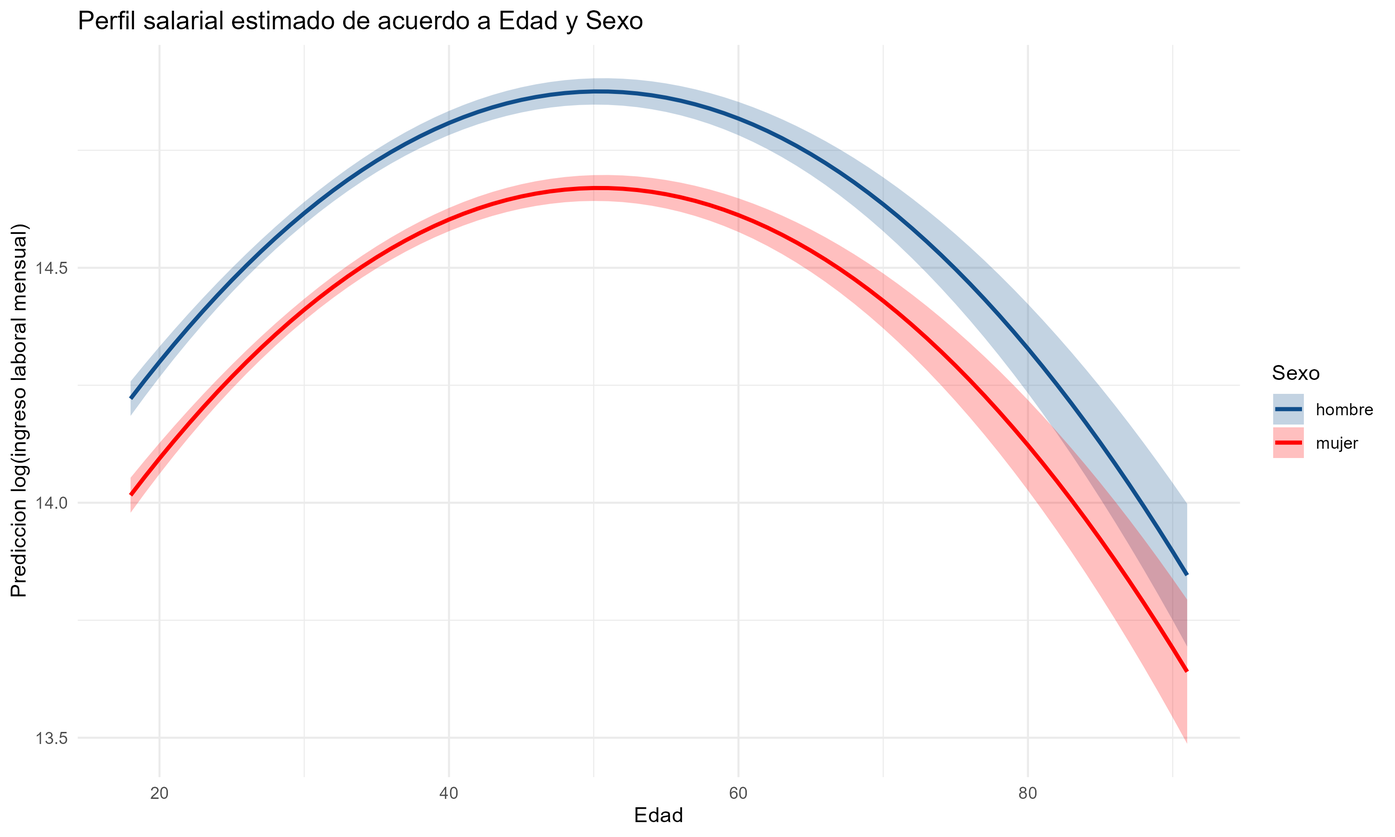
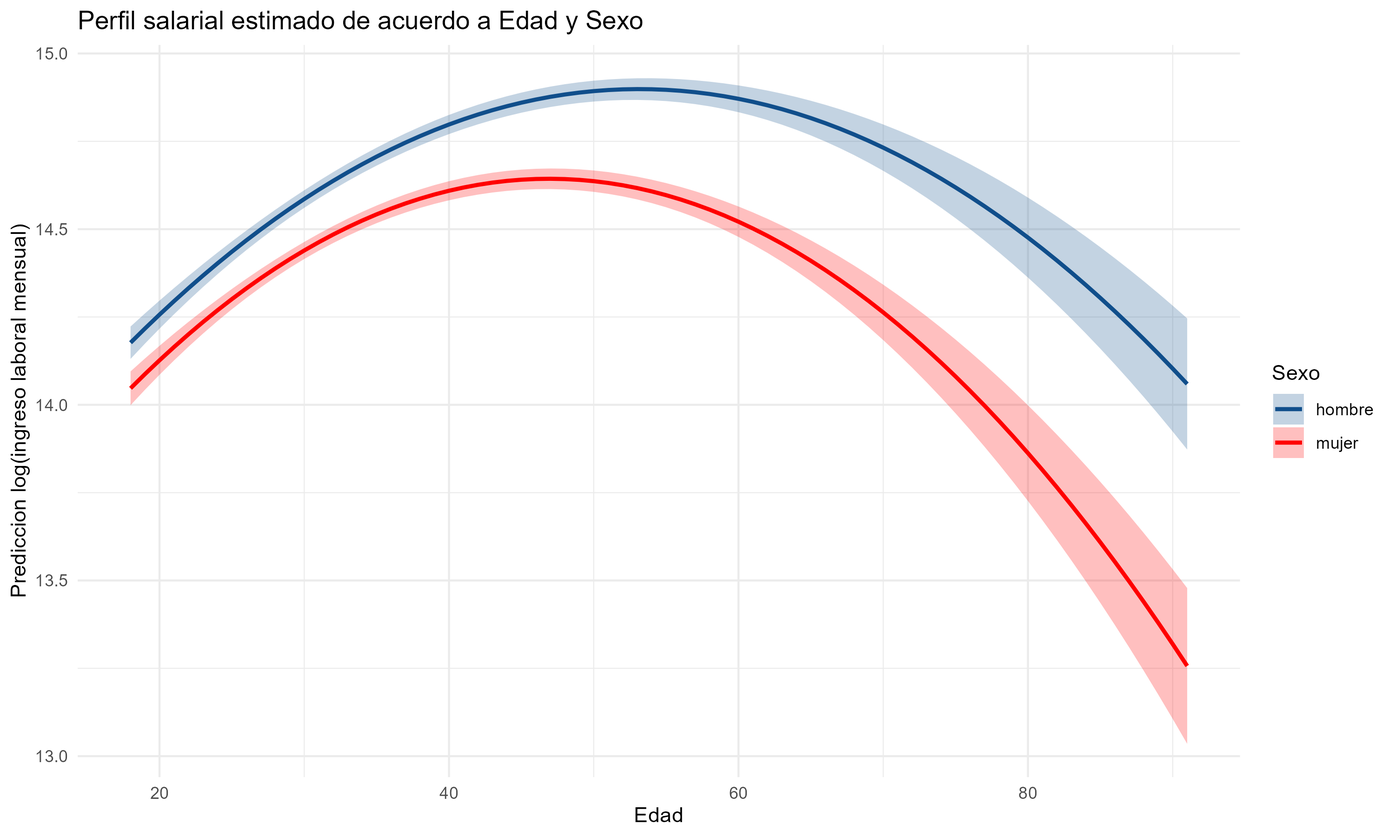
Actualización final punto 5

diff --git a/02_output/tables/comparacion_modelos_sección_3.html b/02_output/tables/comparacion_modelos_sección_3.html
@@ -1,70 +1,76 @@
 
 <table style="text-align:center"><caption><strong>Comparación de los modelos de prediccion</strong></caption>
-<tr><td colspan="10" style="border-bottom: 1px solid black"></td></tr><tr><td style="text-align:left"></td><td colspan="9"><em>Dependent variable:</em></td></tr>
-<tr><td></td><td colspan="9" style="border-bottom: 1px solid black"></td></tr>
-<tr><td style="text-align:left"></td><td colspan="9">log(ingresos mensuales)</td></tr>
-<tr><td style="text-align:left"></td><td>(1)</td><td>(2)</td><td>(3)</td><td>(4)</td><td>(5)</td><td>(6)</td><td>(7)</td><td>(8)</td><td>(9)</td></tr>
-<tr><td colspan="10" style="border-bottom: 1px solid black"></td></tr><tr><td style="text-align:left">age</td><td>0.081<sup>***</sup></td><td>0.067<sup>***</sup></td><td></td><td>0.063<sup>***</sup></td><td>0.086<sup>***</sup></td><td>0.059<sup>***</sup></td><td>0.114<sup>***</sup></td><td>0.037<sup>***</sup></td><td>0.057<sup>***</sup></td></tr>
-<tr><td style="text-align:left"></td><td>(0.004)</td><td>(0.004)</td><td></td><td>(0.003)</td><td>(0.003)</td><td>(0.003)</td><td>(0.011)</td><td>(0.008)</td><td>(0.003)</td></tr>
-<tr><td style="text-align:left"></td><td></td><td></td><td></td><td></td><td></td><td></td><td></td><td></td><td></td></tr>
-<tr><td style="text-align:left">I(age2)</td><td>-0.001<sup>***</sup></td><td>-0.001<sup>***</sup></td><td></td><td>-0.001<sup>***</sup></td><td>-0.001<sup>***</sup></td><td>-0.001<sup>***</sup></td><td>-0.002<sup>***</sup></td><td>-0.001<sup>***</sup></td><td>-0.001<sup>***</sup></td></tr>
-<tr><td style="text-align:left"></td><td>(0.00005)</td><td>(0.00004)</td><td></td><td>(0.00004)</td><td>(0.00004)</td><td>(0.00004)</td><td>(0.0003)</td><td>(0.00004)</td><td>(0.00003)</td></tr>
-<tr><td style="text-align:left"></td><td></td><td></td><td></td><td></td><td></td><td></td><td></td><td></td><td></td></tr>
-<tr><td style="text-align:left">I(age3)</td><td></td><td></td><td></td><td></td><td></td><td></td><td>0.00001<sup>***</sup></td><td></td><td></td></tr>
-<tr><td style="text-align:left"></td><td></td><td></td><td></td><td></td><td></td><td></td><td>(0.00000)</td><td></td><td></td></tr>
-<tr><td style="text-align:left"></td><td></td><td></td><td></td><td></td><td></td><td></td><td></td><td></td><td></td></tr>
-<tr><td style="text-align:left">age:max_educ_level3</td><td></td><td></td><td></td><td></td><td></td><td></td><td></td><td>0.003</td><td></td></tr>
-<tr><td style="text-align:left"></td><td></td><td></td><td></td><td></td><td></td><td></td><td></td><td>(0.007)</td><td></td></tr>
-<tr><td style="text-align:left"></td><td></td><td></td><td></td><td></td><td></td><td></td><td></td><td></td><td></td></tr>
-<tr><td style="text-align:left">age:max_educ_level4</td><td></td><td></td><td></td><td></td><td></td><td></td><td></td><td>0.007</td><td></td></tr>
-<tr><td style="text-align:left"></td><td></td><td></td><td></td><td></td><td></td><td></td><td></td><td>(0.007)</td><td></td></tr>
-<tr><td style="text-align:left"></td><td></td><td></td><td></td><td></td><td></td><td></td><td></td><td></td><td></td></tr>
-<tr><td style="text-align:left">age:max_educ_level5</td><td></td><td></td><td></td><td></td><td></td><td></td><td></td><td>0.007</td><td></td></tr>
-<tr><td style="text-align:left"></td><td></td><td></td><td></td><td></td><td></td><td></td><td></td><td>(0.007)</td><td></td></tr>
-<tr><td style="text-align:left"></td><td></td><td></td><td></td><td></td><td></td><td></td><td></td><td></td><td></td></tr>
-<tr><td style="text-align:left">age:max_educ_level6</td><td></td><td></td><td></td><td></td><td></td><td></td><td></td><td>0.008</td><td></td></tr>
-<tr><td style="text-align:left"></td><td></td><td></td><td></td><td></td><td></td><td></td><td></td><td>(0.006)</td><td></td></tr>
-<tr><td style="text-align:left"></td><td></td><td></td><td></td><td></td><td></td><td></td><td></td><td></td><td></td></tr>
-<tr><td style="text-align:left">age:max_educ_level7</td><td></td><td></td><td></td><td></td><td></td><td></td><td></td><td>0.023<sup>***</sup></td><td></td></tr>
-<tr><td style="text-align:left"></td><td></td><td></td><td></td><td></td><td></td><td></td><td></td><td>(0.006)</td><td></td></tr>
-<tr><td style="text-align:left"></td><td></td><td></td><td></td><td></td><td></td><td></td><td></td><td></td><td></td></tr>
-<tr><td style="text-align:left">max_educ_level3:female</td><td></td><td></td><td></td><td></td><td></td><td></td><td></td><td>-0.072</td><td></td></tr>
-<tr><td style="text-align:left"></td><td></td><td></td><td></td><td></td><td></td><td></td><td></td><td>(0.189)</td><td></td></tr>
-<tr><td style="text-align:left"></td><td></td><td></td><td></td><td></td><td></td><td></td><td></td><td></td><td></td></tr>
-<tr><td style="text-align:left">max_educ_level4:female</td><td></td><td></td><td></td><td></td><td></td><td></td><td></td><td>-0.189</td><td></td></tr>
-<tr><td style="text-align:left"></td><td></td><td></td><td></td><td></td><td></td><td></td><td></td><td>(0.184)</td><td></td></tr>
-<tr><td style="text-align:left"></td><td></td><td></td><td></td><td></td><td></td><td></td><td></td><td></td><td></td></tr>
-<tr><td style="text-align:left">max_educ_level5:female</td><td></td><td></td><td></td><td></td><td></td><td></td><td></td><td>-0.272</td><td></td></tr>
-<tr><td style="text-align:left"></td><td></td><td></td><td></td><td></td><td></td><td></td><td></td><td>(0.183)</td><td></td></tr>
-<tr><td style="text-align:left"></td><td></td><td></td><td></td><td></td><td></td><td></td><td></td><td></td><td></td></tr>
-<tr><td style="text-align:left">max_educ_level6:female</td><td></td><td></td><td></td><td></td><td></td><td></td><td></td><td>-0.144</td><td></td></tr>
-<tr><td style="text-align:left"></td><td></td><td></td><td></td><td></td><td></td><td></td><td></td><td>(0.180)</td><td></td></tr>
-<tr><td style="text-align:left"></td><td></td><td></td><td></td><td></td><td></td><td></td><td></td><td></td><td></td></tr>
-<tr><td style="text-align:left">max_educ_level7:female</td><td></td><td></td><td></td><td></td><td></td><td></td><td></td><td>-0.088</td><td></td></tr>
-<tr><td style="text-align:left"></td><td></td><td></td><td></td><td></td><td></td><td></td><td></td><td>(0.180)</td><td></td></tr>
-<tr><td style="text-align:left"></td><td></td><td></td><td></td><td></td><td></td><td></td><td></td><td></td><td></td></tr>
-<tr><td style="text-align:left">max_educ_level3</td><td></td><td></td><td></td><td>0.284<sup>***</sup></td><td>0.340<sup>***</sup></td><td>0.309<sup>***</sup></td><td>0.327<sup>***</sup></td><td>0.176</td><td>0.261<sup>***</sup></td></tr>
-<tr><td style="text-align:left"></td><td></td><td></td><td></td><td>(0.094)</td><td>(0.109)</td><td>(0.094)</td><td>(0.094)</td><td>(0.386)</td><td>(0.086)</td></tr>
-<tr><td style="text-align:left"></td><td></td><td></td><td></td><td></td><td></td><td></td><td></td><td></td><td></td></tr>
-<tr><td style="text-align:left">max_educ_level4</td><td></td><td></td><td></td><td>0.324<sup>***</sup></td><td>0.400<sup>***</sup></td><td>0.348<sup>***</sup></td><td>0.370<sup>***</sup></td><td>0.061</td><td>0.286<sup>***</sup></td></tr>
-<tr><td style="text-align:left"></td><td></td><td></td><td></td><td>(0.091)</td><td>(0.106)</td><td>(0.092)</td><td>(0.092)</td><td>(0.374)</td><td>(0.084)</td></tr>
-<tr><td style="text-align:left"></td><td></td><td></td><td></td><td></td><td></td><td></td><td></td><td></td><td></td></tr>
-<tr><td style="text-align:left">max_educ_level5</td><td></td><td></td><td></td><td>0.398<sup>***</sup></td><td>0.487<sup>***</sup></td><td>0.434<sup>***</sup></td><td>0.461<sup>***</sup></td><td>0.140</td><td>0.336<sup>***</sup></td></tr>
-<tr><td style="text-align:left"></td><td></td><td></td><td></td><td>(0.091)</td><td>(0.106)</td><td>(0.091)</td><td>(0.091)</td><td>(0.370)</td><td>(0.083)</td></tr>
-<tr><td style="text-align:left"></td><td></td><td></td><td></td><td></td><td></td><td></td><td></td><td></td><td></td></tr>
-<tr><td style="text-align:left">max_educ_level6</td><td></td><td></td><td></td><td>0.495<sup>***</sup></td><td>0.736<sup>***</sup></td><td>0.542<sup>***</sup></td><td>0.563<sup>***</sup></td><td>0.096</td><td>0.389<sup>***</sup></td></tr>
-<tr><td style="text-align:left"></td><td></td><td></td><td></td><td>(0.090)</td><td>(0.105)</td><td>(0.090)</td><td>(0.090)</td><td>(0.367)</td><td>(0.083)</td></tr>
-<tr><td style="text-align:left"></td><td></td><td></td><td></td><td></td><td></td><td></td><td></td><td></td><td></td></tr>
-<tr><td style="text-align:left">max_educ_level7</td><td></td><td></td><td></td><td>1.057<sup>***</sup></td><td>1.394<sup>***</sup></td><td>1.119<sup>***</sup></td><td>1.139<sup>***</sup></td><td>0.125</td><td>0.747<sup>***</sup></td></tr>
-<tr><td style="text-align:left"></td><td></td><td></td><td></td><td>(0.090)</td><td>(0.105)</td><td>(0.091)</td><td>(0.091)</td><td>(0.366)</td><td>(0.083)</td></tr>
-<tr><td style="text-align:left"></td><td></td><td></td><td></td><td></td><td></td><td></td><td></td><td></td><td></td></tr>
-<tr><td style="text-align:left">female</td><td></td><td></td><td>-0.243<sup>***</sup></td><td>-0.199<sup>***</sup></td><td>-0.330<sup>***</sup></td><td>-0.194<sup>***</sup></td><td>-0.194<sup>***</sup></td><td>-0.051</td><td>-0.197<sup>***</sup></td></tr>
-<tr><td style="text-align:left"></td><td></td><td></td><td>(0.018)</td><td>(0.014)</td><td>(0.016)</td><td>(0.014)</td><td>(0.014)</td><td>(0.179)</td><td>(0.013)</td></tr>
-<tr><td style="text-align:left"></td><td></td><td></td><td></td><td></td><td></td><td></td><td></td><td></td><td></td></tr>
-<tr><td colspan="10" style="border-bottom: 1px solid black"></td></tr><tr><td style="text-align:left">RMSE Out-of-sample</td><td>0.876</td><td>0.799</td><td>0.893</td><td>0.661</td><td>0.757</td><td>0.662</td><td>0.662</td><td>0.654</td><td>0.609</td></tr>
-<tr><td style="text-align:left">Observations</td><td>9,378</td><td>9,378</td><td>9,378</td><td>9,378</td><td>9,378</td><td>9,378</td><td>9,378</td><td>9,378</td><td>9,378</td></tr>
-<tr><td style="text-align:left">R<sup>2</sup></td><td>0.053</td><td>0.233</td><td>0.019</td><td>0.469</td><td>0.274</td><td>0.463</td><td>0.464</td><td>0.474</td><td>0.557</td></tr>
-<tr><td style="text-align:left">Adjusted R<sup>2</sup></td><td>0.053</td><td>0.232</td><td>0.019</td><td>0.468</td><td>0.273</td><td>0.462</td><td>0.463</td><td>0.473</td><td>0.556</td></tr>
-<tr><td style="text-align:left">Residual Std. Error</td><td>0.864 (df = 9375)</td><td>0.777 (df = 9368)</td><td>0.879 (df = 9376)</td><td>0.647 (df = 9360)</td><td>0.757 (df = 9369)</td><td>0.651 (df = 9361)</td><td>0.650 (df = 9360)</td><td>0.644 (df = 9351)</td><td>0.591 (df = 9354)</td></tr>
-<tr><td colspan="10" style="border-bottom: 1px solid black"></td></tr><tr><td style="text-align:left"><em>Note:</em></td><td colspan="9" style="text-align:right"><sup>*</sup>p<0.1; <sup>**</sup>p<0.05; <sup>***</sup>p<0.01</td></tr>
+<tr><td colspan="11" style="border-bottom: 1px solid black"></td></tr><tr><td style="text-align:left"></td><td colspan="10"><em>Dependent variable:</em></td></tr>
+<tr><td></td><td colspan="10" style="border-bottom: 1px solid black"></td></tr>
+<tr><td style="text-align:left"></td><td colspan="10">log(ingresos mensuales)</td></tr>
+<tr><td style="text-align:left"></td><td>(1)</td><td>(2)</td><td>(3)</td><td>(4)</td><td>(5)</td><td>(6)</td><td>(7)</td><td>(8)</td><td>(9)</td><td>(10)</td></tr>
+<tr><td colspan="11" style="border-bottom: 1px solid black"></td></tr><tr><td style="text-align:left">age</td><td>0.081<sup>***</sup></td><td>0.067<sup>***</sup></td><td></td><td>0.063<sup>***</sup></td><td>0.063<sup>***</sup></td><td>0.086<sup>***</sup></td><td>0.059<sup>***</sup></td><td>0.114<sup>***</sup></td><td>0.037<sup>***</sup></td><td>0.057<sup>***</sup></td></tr>
+<tr><td style="text-align:left"></td><td>(0.004)</td><td>(0.004)</td><td></td><td>(0.003)</td><td>(0.004)</td><td>(0.003)</td><td>(0.003)</td><td>(0.011)</td><td>(0.008)</td><td>(0.003)</td></tr>
+<tr><td style="text-align:left"></td><td></td><td></td><td></td><td></td><td></td><td></td><td></td><td></td><td></td><td></td></tr>
+<tr><td style="text-align:left">I(age2)</td><td>-0.001<sup>***</sup></td><td>-0.001<sup>***</sup></td><td></td><td>-0.001<sup>***</sup></td><td>-0.001<sup>***</sup></td><td>-0.001<sup>***</sup></td><td>-0.001<sup>***</sup></td><td>-0.002<sup>***</sup></td><td>-0.001<sup>***</sup></td><td>-0.001<sup>***</sup></td></tr>
+<tr><td style="text-align:left"></td><td>(0.00005)</td><td>(0.00004)</td><td></td><td>(0.00004)</td><td>(0.00005)</td><td>(0.00004)</td><td>(0.00004)</td><td>(0.0003)</td><td>(0.00004)</td><td>(0.00003)</td></tr>
+<tr><td style="text-align:left"></td><td></td><td></td><td></td><td></td><td></td><td></td><td></td><td></td><td></td><td></td></tr>
+<tr><td style="text-align:left">I(age3)</td><td></td><td></td><td></td><td></td><td></td><td></td><td></td><td>0.00001<sup>***</sup></td><td></td><td></td></tr>
+<tr><td style="text-align:left"></td><td></td><td></td><td></td><td></td><td></td><td></td><td></td><td>(0.00000)</td><td></td><td></td></tr>
+<tr><td style="text-align:left"></td><td></td><td></td><td></td><td></td><td></td><td></td><td></td><td></td><td></td><td></td></tr>
+<tr><td style="text-align:left">age:max_educ_level3</td><td></td><td></td><td></td><td></td><td></td><td></td><td></td><td></td><td>0.003</td><td></td></tr>
+<tr><td style="text-align:left"></td><td></td><td></td><td></td><td></td><td></td><td></td><td></td><td></td><td>(0.007)</td><td></td></tr>
+<tr><td style="text-align:left"></td><td></td><td></td><td></td><td></td><td></td><td></td><td></td><td></td><td></td><td></td></tr>
+<tr><td style="text-align:left">age:max_educ_level4</td><td></td><td></td><td></td><td></td><td></td><td></td><td></td><td></td><td>0.007</td><td></td></tr>
+<tr><td style="text-align:left"></td><td></td><td></td><td></td><td></td><td></td><td></td><td></td><td></td><td>(0.007)</td><td></td></tr>
+<tr><td style="text-align:left"></td><td></td><td></td><td></td><td></td><td></td><td></td><td></td><td></td><td></td><td></td></tr>
+<tr><td style="text-align:left">age:max_educ_level5</td><td></td><td></td><td></td><td></td><td></td><td></td><td></td><td></td><td>0.007</td><td></td></tr>
+<tr><td style="text-align:left"></td><td></td><td></td><td></td><td></td><td></td><td></td><td></td><td></td><td>(0.007)</td><td></td></tr>
+<tr><td style="text-align:left"></td><td></td><td></td><td></td><td></td><td></td><td></td><td></td><td></td><td></td><td></td></tr>
+<tr><td style="text-align:left">age:max_educ_level6</td><td></td><td></td><td></td><td></td><td></td><td></td><td></td><td></td><td>0.008</td><td></td></tr>
+<tr><td style="text-align:left"></td><td></td><td></td><td></td><td></td><td></td><td></td><td></td><td></td><td>(0.006)</td><td></td></tr>
+<tr><td style="text-align:left"></td><td></td><td></td><td></td><td></td><td></td><td></td><td></td><td></td><td></td><td></td></tr>
+<tr><td style="text-align:left">age:max_educ_level7</td><td></td><td></td><td></td><td></td><td></td><td></td><td></td><td></td><td>0.023<sup>***</sup></td><td></td></tr>
+<tr><td style="text-align:left"></td><td></td><td></td><td></td><td></td><td></td><td></td><td></td><td></td><td>(0.006)</td><td></td></tr>
+<tr><td style="text-align:left"></td><td></td><td></td><td></td><td></td><td></td><td></td><td></td><td></td><td></td><td></td></tr>
+<tr><td style="text-align:left">max_educ_level3:female</td><td></td><td></td><td></td><td></td><td></td><td></td><td></td><td></td><td>-0.072</td><td></td></tr>
+<tr><td style="text-align:left"></td><td></td><td></td><td></td><td></td><td></td><td></td><td></td><td></td><td>(0.189)</td><td></td></tr>
+<tr><td style="text-align:left"></td><td></td><td></td><td></td><td></td><td></td><td></td><td></td><td></td><td></td><td></td></tr>
+<tr><td style="text-align:left">max_educ_level4:female</td><td></td><td></td><td></td><td></td><td></td><td></td><td></td><td></td><td>-0.189</td><td></td></tr>
+<tr><td style="text-align:left"></td><td></td><td></td><td></td><td></td><td></td><td></td><td></td><td></td><td>(0.184)</td><td></td></tr>
+<tr><td style="text-align:left"></td><td></td><td></td><td></td><td></td><td></td><td></td><td></td><td></td><td></td><td></td></tr>
+<tr><td style="text-align:left">max_educ_level5:female</td><td></td><td></td><td></td><td></td><td></td><td></td><td></td><td></td><td>-0.272</td><td></td></tr>
+<tr><td style="text-align:left"></td><td></td><td></td><td></td><td></td><td></td><td></td><td></td><td></td><td>(0.183)</td><td></td></tr>
+<tr><td style="text-align:left"></td><td></td><td></td><td></td><td></td><td></td><td></td><td></td><td></td><td></td><td></td></tr>
+<tr><td style="text-align:left">max_educ_level6:female</td><td></td><td></td><td></td><td></td><td></td><td></td><td></td><td></td><td>-0.144</td><td></td></tr>
+<tr><td style="text-align:left"></td><td></td><td></td><td></td><td></td><td></td><td></td><td></td><td></td><td>(0.180)</td><td></td></tr>
+<tr><td style="text-align:left"></td><td></td><td></td><td></td><td></td><td></td><td></td><td></td><td></td><td></td><td></td></tr>
+<tr><td style="text-align:left">max_educ_level7:female</td><td></td><td></td><td></td><td></td><td></td><td></td><td></td><td></td><td>-0.088</td><td></td></tr>
+<tr><td style="text-align:left"></td><td></td><td></td><td></td><td></td><td></td><td></td><td></td><td></td><td>(0.180)</td><td></td></tr>
+<tr><td style="text-align:left"></td><td></td><td></td><td></td><td></td><td></td><td></td><td></td><td></td><td></td><td></td></tr>
+<tr><td style="text-align:left">max_educ_level3</td><td></td><td></td><td></td><td>0.284<sup>***</sup></td><td>0.264<sup>***</sup></td><td>0.340<sup>***</sup></td><td>0.309<sup>***</sup></td><td>0.327<sup>***</sup></td><td>0.176</td><td>0.261<sup>***</sup></td></tr>
+<tr><td style="text-align:left"></td><td></td><td></td><td></td><td>(0.094)</td><td>(0.094)</td><td>(0.109)</td><td>(0.094)</td><td>(0.094)</td><td>(0.386)</td><td>(0.086)</td></tr>
+<tr><td style="text-align:left"></td><td></td><td></td><td></td><td></td><td></td><td></td><td></td><td></td><td></td><td></td></tr>
+<tr><td style="text-align:left">max_educ_level4</td><td></td><td></td><td></td><td>0.324<sup>***</sup></td><td>0.303<sup>***</sup></td><td>0.400<sup>***</sup></td><td>0.348<sup>***</sup></td><td>0.370<sup>***</sup></td><td>0.061</td><td>0.286<sup>***</sup></td></tr>
+<tr><td style="text-align:left"></td><td></td><td></td><td></td><td>(0.091)</td><td>(0.091)</td><td>(0.106)</td><td>(0.092)</td><td>(0.092)</td><td>(0.374)</td><td>(0.084)</td></tr>
+<tr><td style="text-align:left"></td><td></td><td></td><td></td><td></td><td></td><td></td><td></td><td></td><td></td><td></td></tr>
+<tr><td style="text-align:left">max_educ_level5</td><td></td><td></td><td></td><td>0.398<sup>***</sup></td><td>0.378<sup>***</sup></td><td>0.487<sup>***</sup></td><td>0.434<sup>***</sup></td><td>0.461<sup>***</sup></td><td>0.140</td><td>0.336<sup>***</sup></td></tr>
+<tr><td style="text-align:left"></td><td></td><td></td><td></td><td>(0.091)</td><td>(0.091)</td><td>(0.106)</td><td>(0.091)</td><td>(0.091)</td><td>(0.370)</td><td>(0.083)</td></tr>
+<tr><td style="text-align:left"></td><td></td><td></td><td></td><td></td><td></td><td></td><td></td><td></td><td></td><td></td></tr>
+<tr><td style="text-align:left">max_educ_level6</td><td></td><td></td><td></td><td>0.495<sup>***</sup></td><td>0.472<sup>***</sup></td><td>0.736<sup>***</sup></td><td>0.542<sup>***</sup></td><td>0.563<sup>***</sup></td><td>0.096</td><td>0.389<sup>***</sup></td></tr>
+<tr><td style="text-align:left"></td><td></td><td></td><td></td><td>(0.090)</td><td>(0.090)</td><td>(0.105)</td><td>(0.090)</td><td>(0.090)</td><td>(0.367)</td><td>(0.083)</td></tr>
+<tr><td style="text-align:left"></td><td></td><td></td><td></td><td></td><td></td><td></td><td></td><td></td><td></td><td></td></tr>
+<tr><td style="text-align:left">max_educ_level7</td><td></td><td></td><td></td><td>1.057<sup>***</sup></td><td>1.028<sup>***</sup></td><td>1.394<sup>***</sup></td><td>1.119<sup>***</sup></td><td>1.139<sup>***</sup></td><td>0.125</td><td>0.747<sup>***</sup></td></tr>
+<tr><td style="text-align:left"></td><td></td><td></td><td></td><td>(0.090)</td><td>(0.090)</td><td>(0.105)</td><td>(0.091)</td><td>(0.091)</td><td>(0.366)</td><td>(0.083)</td></tr>
+<tr><td style="text-align:left"></td><td></td><td></td><td></td><td></td><td></td><td></td><td></td><td></td><td></td><td></td></tr>
+<tr><td style="text-align:left">female:age</td><td></td><td></td><td></td><td></td><td>0.004</td><td></td><td></td><td></td><td></td><td></td></tr>
+<tr><td style="text-align:left"></td><td></td><td></td><td></td><td></td><td>(0.006)</td><td></td><td></td><td></td><td></td><td></td></tr>
+<tr><td style="text-align:left"></td><td></td><td></td><td></td><td></td><td></td><td></td><td></td><td></td><td></td><td></td></tr>
+<tr><td style="text-align:left">female:I(age2)</td><td></td><td></td><td></td><td></td><td>-0.0001</td><td></td><td></td><td></td><td></td><td></td></tr>
+<tr><td style="text-align:left"></td><td></td><td></td><td></td><td></td><td>(0.0001)</td><td></td><td></td><td></td><td></td><td></td></tr>
+<tr><td style="text-align:left"></td><td></td><td></td><td></td><td></td><td></td><td></td><td></td><td></td><td></td><td></td></tr>
+<tr><td style="text-align:left">female</td><td></td><td></td><td>-0.243<sup>***</sup></td><td>-0.199<sup>***</sup></td><td>-0.149</td><td>-0.330<sup>***</sup></td><td>-0.194<sup>***</sup></td><td>-0.194<sup>***</sup></td><td>-0.051</td><td>-0.197<sup>***</sup></td></tr>
+<tr><td style="text-align:left"></td><td></td><td></td><td>(0.018)</td><td>(0.014)</td><td>(0.119)</td><td>(0.016)</td><td>(0.014)</td><td>(0.014)</td><td>(0.179)</td><td>(0.013)</td></tr>
+<tr><td style="text-align:left"></td><td></td><td></td><td></td><td></td><td></td><td></td><td></td><td></td><td></td><td></td></tr>
+<tr><td colspan="11" style="border-bottom: 1px solid black"></td></tr><tr><td style="text-align:left">RMSE Out-of-sample</td><td>0.876</td><td>0.799</td><td>0.893</td><td>0.661</td><td>0.66</td><td>0.757</td><td>0.662</td><td>0.662</td><td>0.654</td><td>0.609</td></tr>
+<tr><td style="text-align:left">Observations</td><td>9,378</td><td>9,378</td><td>9,378</td><td>9,378</td><td>9,378</td><td>9,378</td><td>9,378</td><td>9,378</td><td>9,378</td><td>9,378</td></tr>
+<tr><td style="text-align:left">R<sup>2</sup></td><td>0.053</td><td>0.233</td><td>0.019</td><td>0.469</td><td>0.471</td><td>0.274</td><td>0.463</td><td>0.464</td><td>0.474</td><td>0.557</td></tr>
+<tr><td style="text-align:left">Adjusted R<sup>2</sup></td><td>0.053</td><td>0.232</td><td>0.019</td><td>0.468</td><td>0.470</td><td>0.273</td><td>0.462</td><td>0.463</td><td>0.473</td><td>0.556</td></tr>
+<tr><td style="text-align:left">Residual Std. Error</td><td>0.864 (df = 9375)</td><td>0.777 (df = 9368)</td><td>0.879 (df = 9376)</td><td>0.647 (df = 9360)</td><td>0.646 (df = 9358)</td><td>0.757 (df = 9369)</td><td>0.651 (df = 9361)</td><td>0.650 (df = 9360)</td><td>0.644 (df = 9351)</td><td>0.591 (df = 9354)</td></tr>
+<tr><td colspan="11" style="border-bottom: 1px solid black"></td></tr><tr><td style="text-align:left"><em>Note:</em></td><td colspan="10" style="text-align:right"><sup>*</sup>p<0.1; <sup>**</sup>p<0.05; <sup>***</sup>p<0.01</td></tr>
 </table>

diff --git a/02_output/tables/tabla_modelos_resumen.html b/02_output/tables/tabla_modelos_resumen.html
@@ -294,6 +294,7 @@ border: 0;
    <th style="text-align:center;"> M7 </th>
    <th style="text-align:center;"> M8 </th>
    <th style="text-align:center;"> M9 </th>
+   <th style="text-align:center;"> M10 </th>
   </tr>
  </thead>
 <tbody>
@@ -302,6 +303,7 @@ border: 0;
    <td style="text-align:center;"> ✔ </td>
    <td style="text-align:center;"> ✔ </td>
    <td style="text-align:center;">  </td>
+   <td style="text-align:center;"> ✔ </td>
    <td style="text-align:center;"> ✔ </td>
    <td style="text-align:center;"> ✔ </td>
    <td style="text-align:center;"> ✔ </td>
@@ -320,9 +322,11 @@ border: 0;
    <td style="text-align:center;"> ✔ </td>
    <td style="text-align:center;"> ✔ </td>
    <td style="text-align:center;"> ✔ </td>
+   <td style="text-align:center;"> ✔ </td>
   </tr>
   <tr>
    <td style="text-align:left;"> Edad³ </td>
+   <td style="text-align:center;">  </td>
    <td style="text-align:center;">  </td>
    <td style="text-align:center;">  </td>
    <td style="text-align:center;">  </td>
@@ -339,6 +343,7 @@ border: 0;
    <td style="text-align:center;"> ✔ </td>
    <td style="text-align:center;">  </td>
    <td style="text-align:center;"> ✔ </td>
+   <td style="text-align:center;"> ✔ </td>
    <td style="text-align:center;">  </td>
    <td style="text-align:center;"> ✔ </td>
    <td style="text-align:center;"> ✔ </td>
@@ -349,6 +354,7 @@ border: 0;
    <td style="text-align:left;"> Relación laboral </td>
    <td style="text-align:center;">  </td>
    <td style="text-align:center;"> ✔ </td>
+   <td style="text-align:center;">  </td>
    <td style="text-align:center;">  </td>
    <td style="text-align:center;">  </td>
    <td style="text-align:center;">  </td>
@@ -368,12 +374,14 @@ border: 0;
    <td style="text-align:center;"> ✔ </td>
    <td style="text-align:center;"> ✔ </td>
    <td style="text-align:center;"> ✔ </td>
+   <td style="text-align:center;"> ✔ </td>
   </tr>
   <tr>
    <td style="text-align:left;"> Max. nivel educativo </td>
    <td style="text-align:center;">  </td>
    <td style="text-align:center;">  </td>
    <td style="text-align:center;">  </td>
+   <td style="text-align:center;"> ✔ </td>
    <td style="text-align:center;"> ✔ </td>
    <td style="text-align:center;"> ✔ </td>
    <td style="text-align:center;"> ✔ </td>
@@ -387,6 +395,7 @@ border: 0;
    <td style="text-align:center;">  </td>
    <td style="text-align:center;">  </td>
    <td style="text-align:center;"> ✔ </td>
+   <td style="text-align:center;"> ✔ </td>
    <td style="text-align:center;">  </td>
    <td style="text-align:center;">  </td>
    <td style="text-align:center;">  </td>
@@ -398,6 +407,7 @@ border: 0;
    <td style="text-align:center;">  </td>
    <td style="text-align:center;">  </td>
    <td style="text-align:center;">  </td>
+   <td style="text-align:center;"> ✔ </td>
    <td style="text-align:center;"> ✔ </td>
    <td style="text-align:center;">  </td>
    <td style="text-align:center;">  </td>
@@ -411,6 +421,7 @@ border: 0;
    <td style="text-align:center;">  </td>
    <td style="text-align:center;">  </td>
    <td style="text-align:center;"> ✔ </td>
+   <td style="text-align:center;"> ✔ </td>
    <td style="text-align:center;">  </td>
    <td style="text-align:center;">  </td>
    <td style="text-align:center;">  </td>
@@ -419,6 +430,7 @@ border: 0;
   </tr>
   <tr>
    <td style="text-align:left;"> Empleo formal </td>
+   <td style="text-align:center;">  </td>
    <td style="text-align:center;">  </td>
    <td style="text-align:center;">  </td>
    <td style="text-align:center;">  </td>
@@ -438,6 +450,7 @@ border: 0;
    <td style="text-align:center;">  </td>
    <td style="text-align:center;">  </td>
    <td style="text-align:center;">  </td>
+   <td style="text-align:center;">  </td>
    <td style="text-align:center;"> ✔ </td>
    <td style="text-align:center;">  </td>
   </tr>
@@ -450,11 +463,39 @@ border: 0;
    <td style="text-align:center;">  </td>
    <td style="text-align:center;">  </td>
    <td style="text-align:center;">  </td>
+   <td style="text-align:center;">  </td>
    <td style="text-align:center;"> ✔ </td>
    <td style="text-align:center;">  </td>
   </tr>
   <tr>
+   <td style="text-align:left;"> Mujer × Edad </td>
+   <td style="text-align:center;">  </td>
+   <td style="text-align:center;">  </td>
+   <td style="text-align:center;">  </td>
+   <td style="text-align:center;">  </td>
+   <td style="text-align:center;"> ✔ </td>
+   <td style="text-align:center;">  </td>
+   <td style="text-align:center;">  </td>
+   <td style="text-align:center;">  </td>
+   <td style="text-align:center;">  </td>
+   <td style="text-align:center;">  </td>
+  </tr>
+  <tr>
+   <td style="text-align:left;"> Mujer × Edad² </td>
+   <td style="text-align:center;">  </td>
+   <td style="text-align:center;">  </td>
+   <td style="text-align:center;">  </td>
+   <td style="text-align:center;">  </td>
+   <td style="text-align:center;"> ✔ </td>
+   <td style="text-align:center;">  </td>
+   <td style="text-align:center;">  </td>
+   <td style="text-align:center;">  </td>
+   <td style="text-align:center;">  </td>
+   <td style="text-align:center;">  </td>
+  </tr>
+  <tr>
    <td style="text-align:left;"> Estrato </td>
+   <td style="text-align:center;">  </td>
    <td style="text-align:center;">  </td>
    <td style="text-align:center;">  </td>
    <td style="text-align:center;">  </td>
@@ -471,6 +512,7 @@ border: 0;
    <td style="text-align:center;"> 0.232 </td>
    <td style="text-align:center;"> 0.019 </td>
    <td style="text-align:center;"> 0.468 </td>
+   <td style="text-align:center;"> 0.47 </td>
    <td style="text-align:center;"> 0.273 </td>
    <td style="text-align:center;"> 0.462 </td>
    <td style="text-align:center;"> 0.463 </td>
@@ -488,6 +530,7 @@ border: 0;
    <td style="text-align:center;"> 9378 </td>
    <td style="text-align:center;"> 9378 </td>
    <td style="text-align:center;"> 9378 </td>
+   <td style="text-align:center;"> 9378 </td>
   </tr>
   <tr>
    <td style="text-align:left;"> RMSE </td>
@@ -495,6 +538,7 @@ border: 0;
    <td style="text-align:center;"> 0.799 </td>
    <td style="text-align:center;"> 0.893 </td>
    <td style="text-align:center;"> 0.661 </td>
+   <td style="text-align:center;"> 0.66 </td>
    <td style="text-align:center;"> 0.757 </td>
    <td style="text-align:center;"> 0.662 </td>
    <td style="text-align:center;"> 0.662 </td>

diff --git a/02_output/tables/tablas_peaks.html b/02_output/tables/tablas_peaks.html
@@ -281,20 +281,27 @@ border: 0;
 </head>
 <body>
 <table class="table table-striped table-hover table-condensed" style="font-size: 16px; width: auto !important; margin-left: auto; margin-right: auto;">
+<caption style="font-size: initial !important;">Peak Ages por Sexo (Intervalos de Confianza Bootstrap 95%)</caption>
  <thead>
   <tr>
    <th style="text-align:left;font-weight: bold;color: white !important;background-color: rgba(68, 114, 196, 255) !important;"> Grupo </th>
-   <th style="text-align:right;font-weight: bold;color: white !important;background-color: rgba(68, 114, 196, 255) !important;"> Peak Age (años) </th>
-   <th style="text-align:right;font-weight: bold;color: white !important;background-color: rgba(68, 114, 196, 255) !important;"> IC 95% inferior </th>
-   <th style="text-align:right;font-weight: bold;color: white !important;background-color: rgba(68, 114, 196, 255) !important;"> IC 95% superior </th>
+   <th style="text-align:right;font-weight: bold;color: white !important;background-color: rgba(68, 114, 196, 255) !important;"> Peak Age </th>
+   <th style="text-align:right;font-weight: bold;color: white !important;background-color: rgba(68, 114, 196, 255) !important;"> IC 95% Inferior </th>
+   <th style="text-align:right;font-weight: bold;color: white !important;background-color: rgba(68, 114, 196, 255) !important;"> IC 95% Superior </th>
   </tr>
  </thead>
 <tbody>
   <tr>
-   <td style="text-align:left;background-color: White !important;"> Ambos (Hombre y Mujer) </td>
-   <td style="text-align:right;background-color: White !important;"> 50.4 </td>
-   <td style="text-align:right;background-color: White !important;"> 49 </td>
-   <td style="text-align:right;background-color: White !important;"> 52.1 </td>
+   <td style="text-align:left;background-color: white !important;"> Hombre </td>
+   <td style="text-align:right;background-color: white !important;"> 53.1 </td>
+   <td style="text-align:right;background-color: white !important;"> 51.0 </td>
+   <td style="text-align:right;background-color: white !important;"> 55.9 </td>
+  </tr>
+  <tr>
+   <td style="text-align:left;background-color: white !important;"> Mujer </td>
+   <td style="text-align:right;background-color: white !important;"> 46.9 </td>
+   <td style="text-align:right;background-color: white !important;"> 45.4 </td>
+   <td style="text-align:right;background-color: white !important;"> 48.7 </td>
   </tr>
 </tbody>
 </table>
